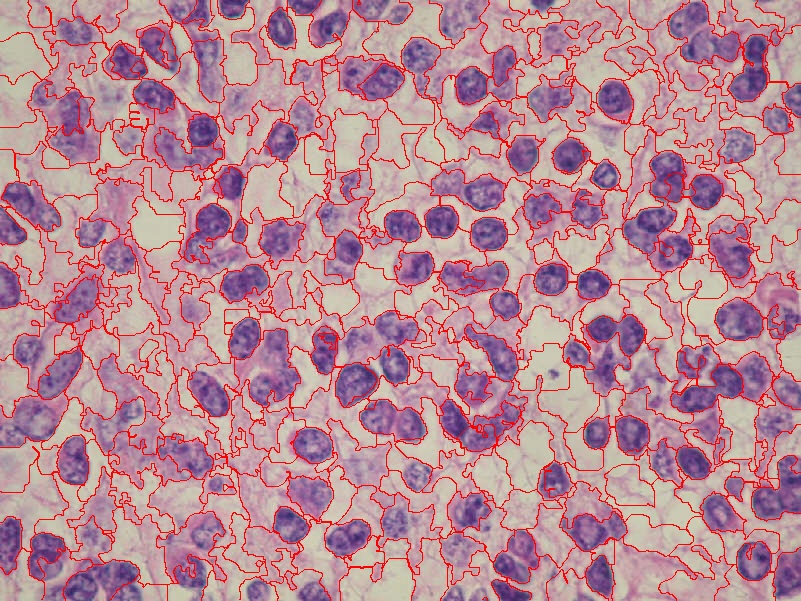
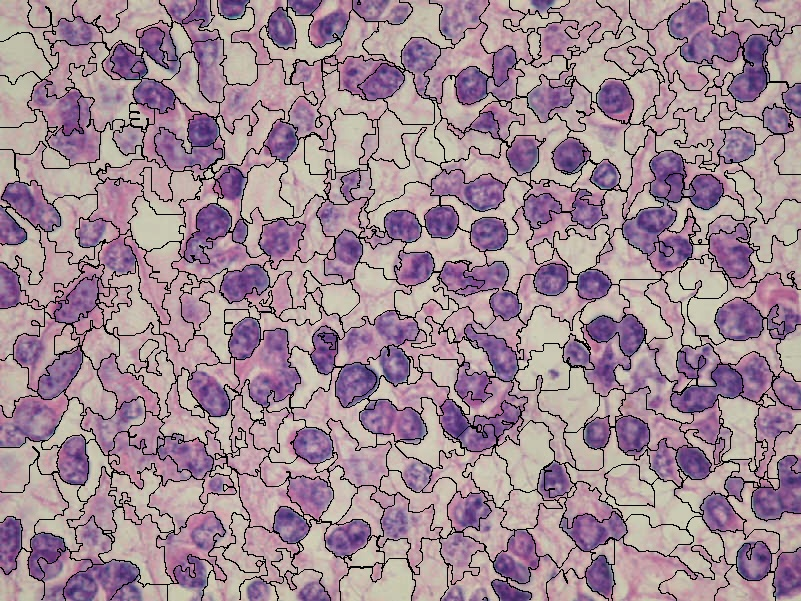
Add OpenCV3 SLIC implementation

diff --git a/opencv-slic.py b/opencv-slic.py
@@ -7,36 +7,37 @@ WAITING  = "-\\|//"
 
 if __name__ == '__main__':
 
-	if len(sys.argv) < 3:
-		print("[!] %s <file path> <number of clusters>" % sys.argv[0])
-		print("example: %s dog.png 400" % sys.argv[0])
+	if len(sys.argv) < 2:
+		print("[!] %s <file path> [region_size]" % sys.argv[0])
+		print("example: %s dog.png 20" % sys.argv[0])
 		sys.exit(1)
 
+	region_size = 20
 	filePath = sys.argv[1]
-	nbr_superpixels = int(sys.argv[2])
+	if (len(sys.argv) >= 2):
+		region_size = int(sys.argv[2])
 
-	seeds = None
-	display_mode = 0
-	prior = 2
-	nbr_levels = 4
-	nbr_histogram_bins = 5
+	slic = None
+	ruler = 40
 
 	img = cv2.imread(filePath, 1)
 
-	converted_img = cv2.cvtColor(img, cv2.COLOR_BGR2HSV)
-	height, width, channels = converted_img.shape
+	converted_img = cv2.cvtColor(img, cv2.COLOR_BGR2LAB)
 
-	seeds = cv2.ximgproc.createSuperpixelSEEDS(width, height, channels, nbr_superpixels, nbr_levels, prior, nbr_histogram_bins)
-	color_img = np.zeros((height, width, 3), np.uint8)
+	slic = cv2.ximgproc.createSuperpixelSLIC(converted_img, cv2.ximgproc.SLIC, region_size, ruler)
+	color_img = np.zeros(img.shape, np.uint8)
 	color_img[:] = (0, 0, 0)
 
 	for n in range(NBR_ITERATIONS):
 		print("\r[%s] iteration %d (%d %%)..." % (WAITING[n % 4], n, (100*n/NBR_ITERATIONS))),
 		sys.stdout.flush()
-		seeds.iterate(converted_img, NBR_ITERATIONS)
+		slic.iterate(NBR_ITERATIONS)
 	print("done!")
 
-	mask = seeds.getLabelContourMask(False)
+	print("[*] %d superpixels have been generated" % slic.getNumberOfSuperpixels())
+
+	slic.enforceLabelConnectivity()
+	mask = slic.getLabelContourMask(False)
 
 	# stitch foreground & background together
 	mask_inv = cv2.bitwise_not(mask)
@@ -46,6 +47,6 @@ if __name__ == '__main__':
 	result = cv2.add(result_bg, result_fg)
 
 	pointIndex = filePath.rfind('.')
-	filePath = filePath[:pointIndex] + "-seeds-" + str(nbr_superpixels) + filePath[pointIndex:]
+	filePath = filePath[:pointIndex] + "-slic-" + str(region_size) + filePath[pointIndex:]
 	print("[-] saving result in file %s" % filePath)
 	cv2.imwrite(filePath, result)

diff --git a/README.md b/README.md
@@ -18,6 +18,18 @@ Exemple :
 
 `python opencv-seeds.py dog.png 400`
 
+### Script SLIC qui utilise l'extension ximgproc d'OpenCV 3
+
+`opencv-slic.py <file path> <region size>`
+
+L'implémentation d'OpenCV ne propose pas de donner comme argument le nombre de superpixels.
+A la place, il faut renseigner la taille en pixels d'un superpixel.
+Le script affiche alors le nombre de superpixels obtenus.
+
+Exemple :
+
+`python opencv-slic.py dog.png 30`
+
 
 ## Resultats
 
@@ -25,16 +37,19 @@ Exemple :
 
 ![Chien original](/dog.png?raw=true "Chien original")
 ![Chien SLIC](/dog-slic-400-1.png?raw=true "Chien SLIC")
-![Chien SLIC](/dog-seeds-400.png?raw=true "Chien SEEDS")
+![Chien OpenCV SEEDS](/dog-seeds-400.png?raw=true "Chien OpenCV SEEDS")
+![Chien OpenCV SLIC](/dog-slic-15.png?raw=true "Chien OpenCV SLIC")
 
 ### Obama
 
 ![Obama original](/obama.jpg?raw=true "Obama original")
 ![Obama SLIC](/obama-slic-400-1.jpg?raw=true "Obama SLIC")
-![Obama SLIC](/obama-seeds-400.jpg?raw=true "Obama SEEDS")
+![Obama OpenCV SEEDS](/obama-seeds-400.jpg?raw=true "Obama OpenCV SEEDS")
+![Obama OpenCV SLIC](/obama-slic-30.jpg?raw=true "Obama OpenCV SLIC")
 
 ### Cellules
 
 ![Cellules original](/cells.jpg?raw=true "Cellules original")
 ![Cellules SLIC](/cells-slic-400-1.jpg?raw=true "Cellules SLIC")
-![Obama SLIC](/cells-seeds-400.jpg?raw=true "Cellules SEEDS")
+![Obama OpenCV SEEDS](/cells-seeds-400.jpg?raw=true "Cellules OpenCV SEEDS")
+![Obama OpenCV SLIC](/cells-slic-40.jpg?raw=true "Cellules OpenCV SLIC")
